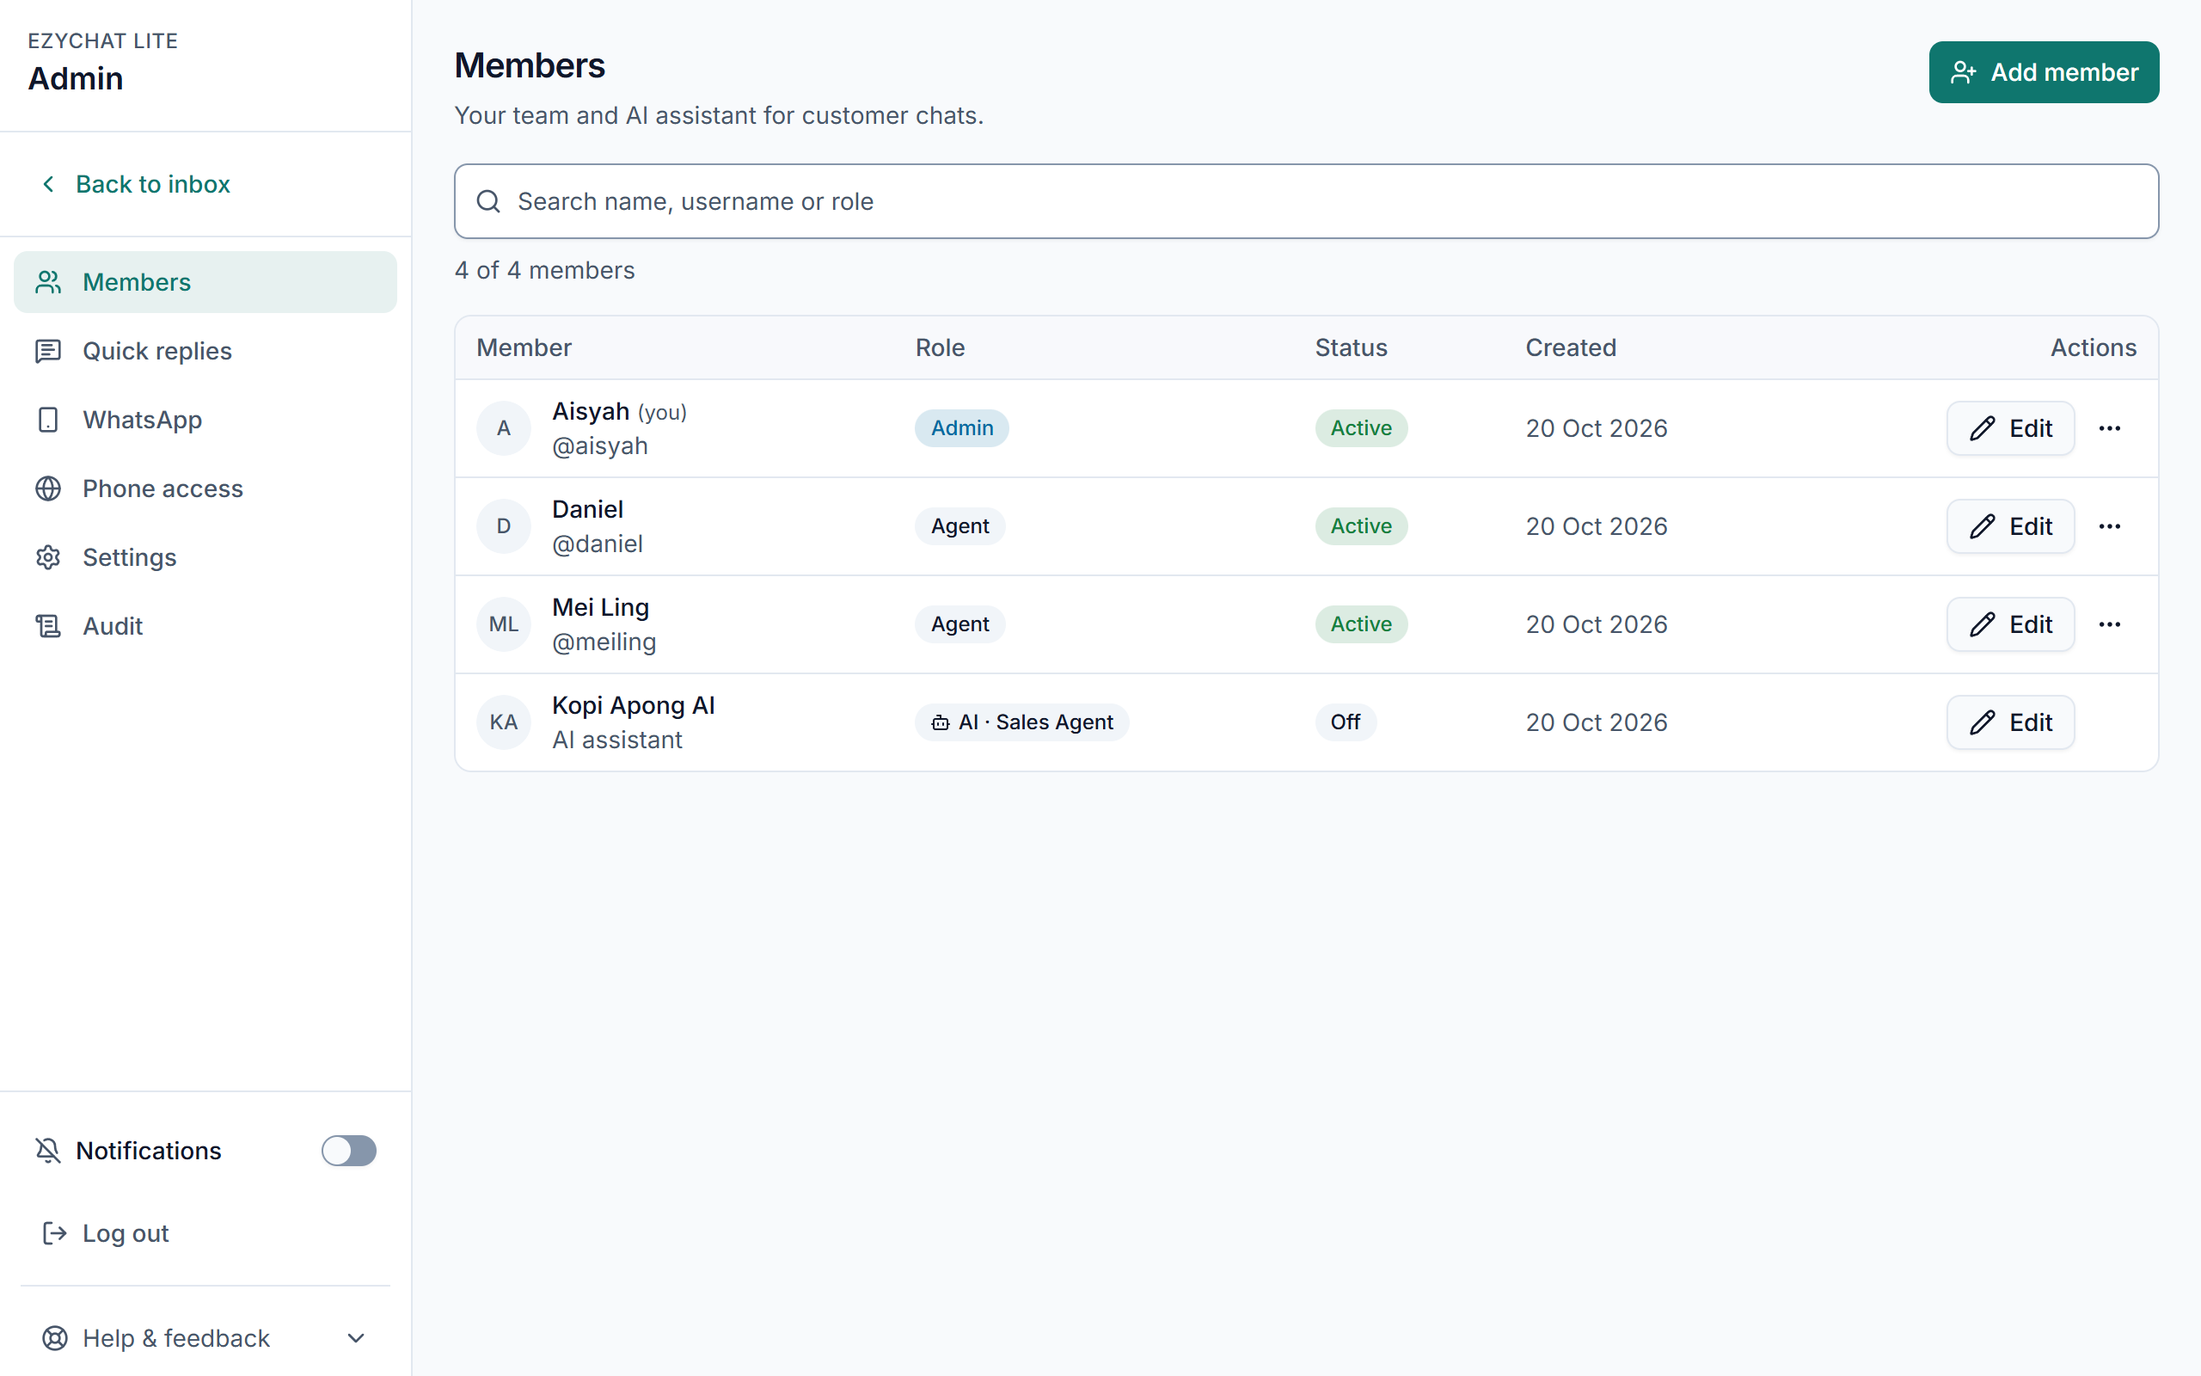
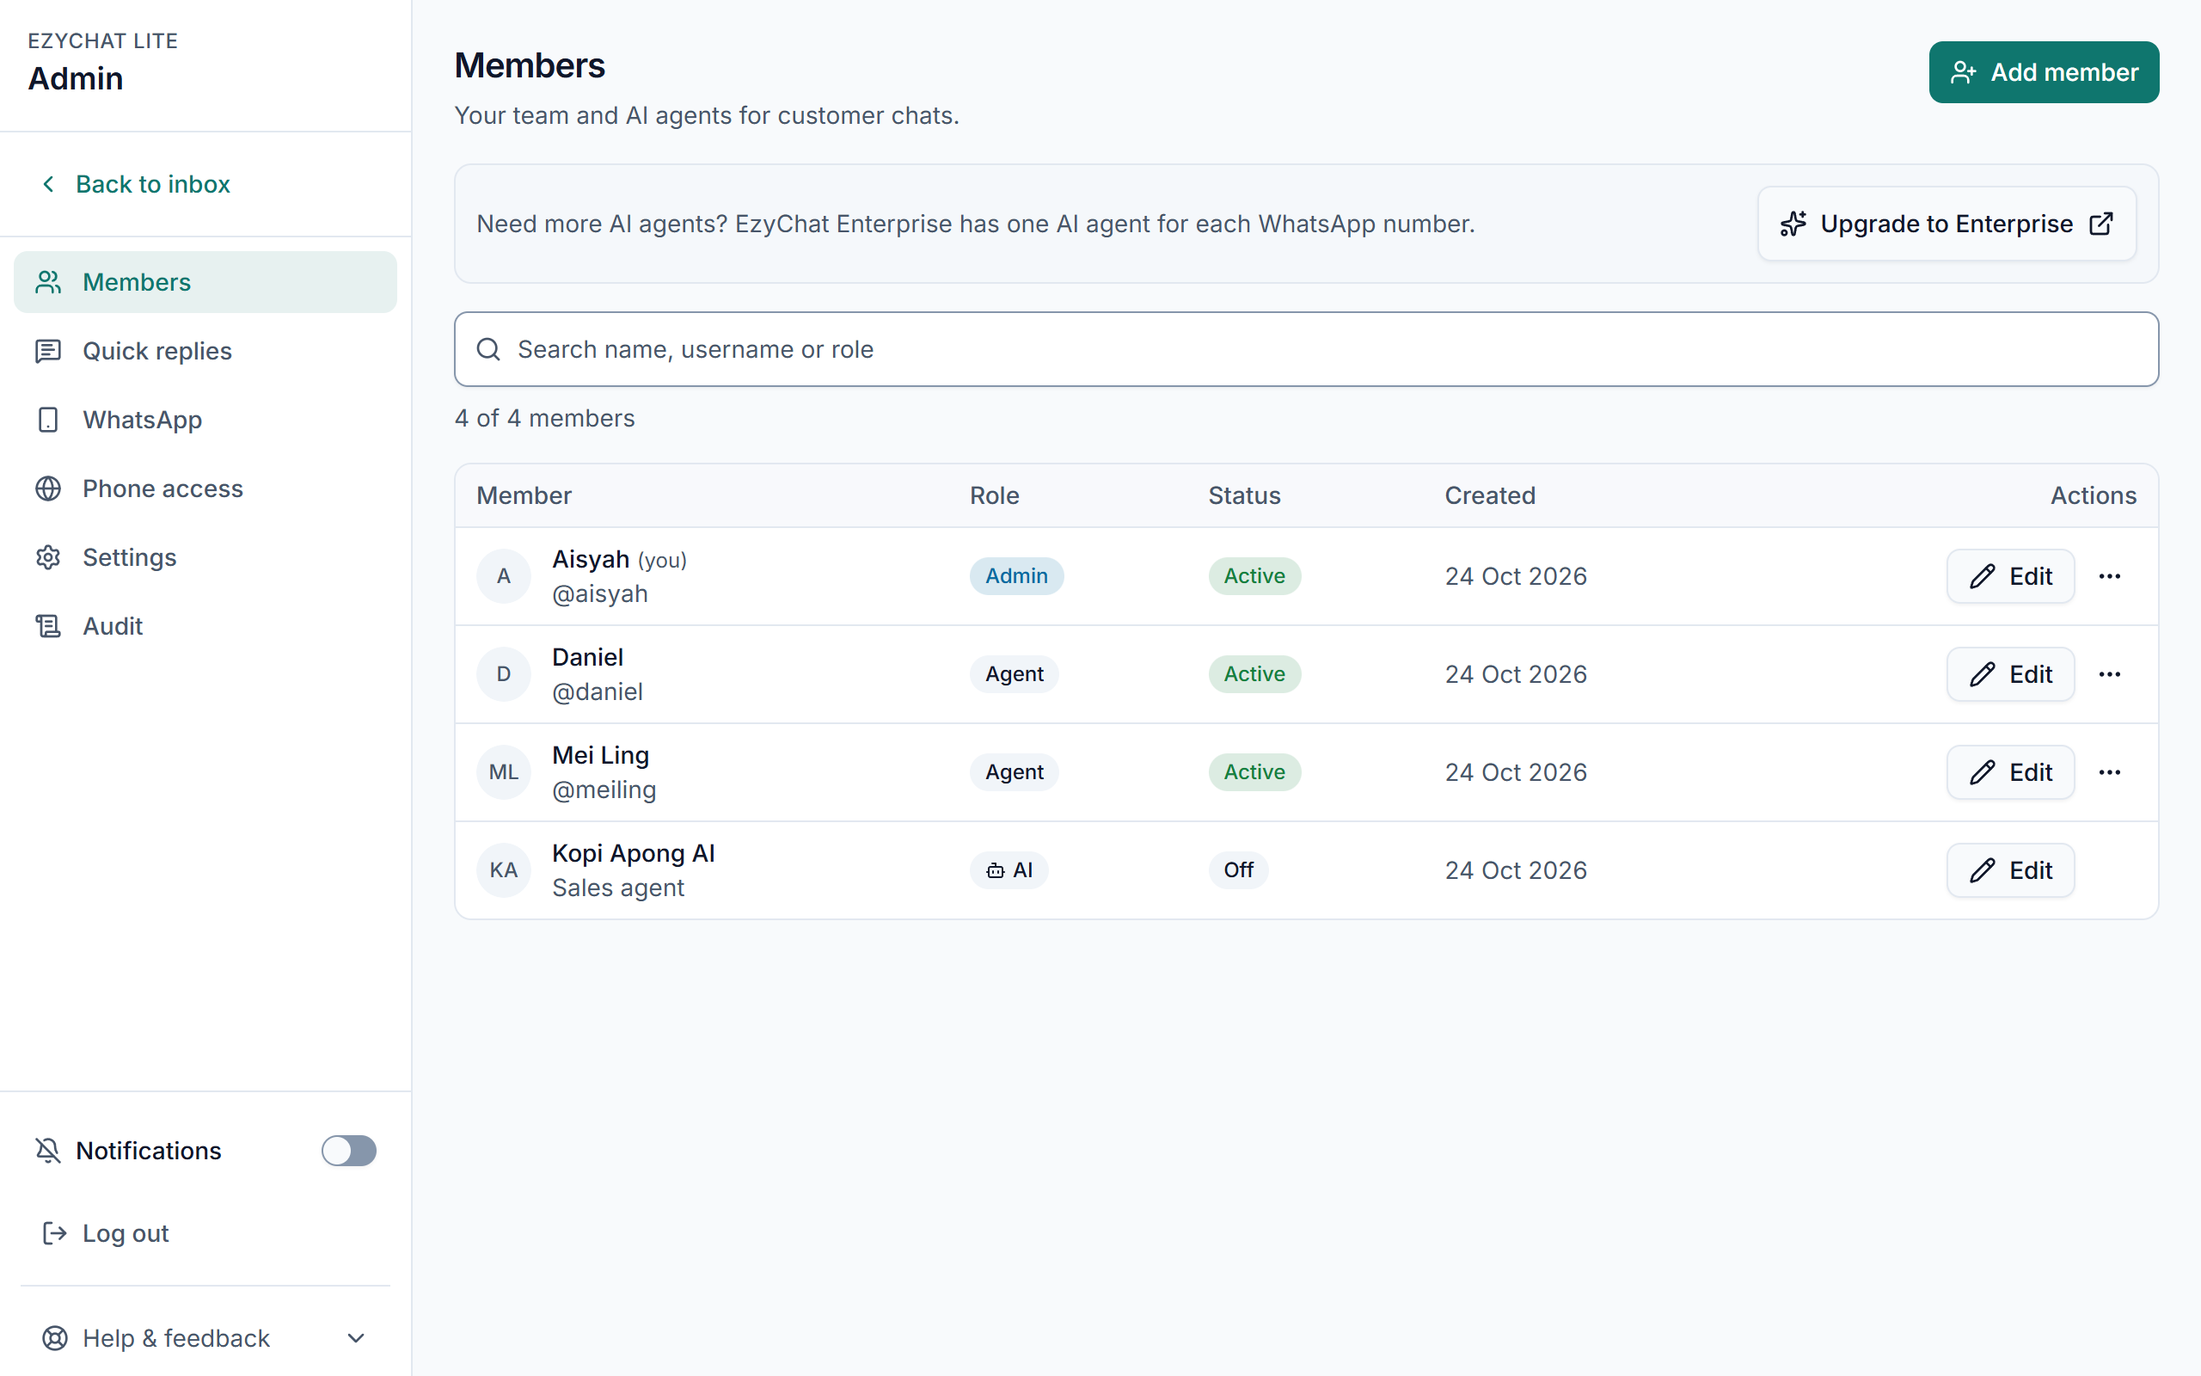
docs(upgrade): e2e, Dev Build check, screen review and refreshed screenshots
Claude-Session: https://claude.ai/code/session_01S9XZgzFP3XMvxuZSeyCGwr

diff --git a/docs/dev-build-checks.md b/docs/dev-build-checks.md
@@ -31,11 +31,12 @@ Read this log before testing a feature, and add a row after every Dev Build chec
 
 Emoji reactions (`feat/emoji-reactions`), fake WA, temp data:
 
-| Date       | Build / PR                                        | Scenario                                                                                                                        | Steps                                                                                                                                                                                                                                                                                                                                                                                                                                                  | Result                                                                                                                                                                                                                                                                                                | Not covered                                                                                                                                                                                   |
-| ---------- | ------------------------------------------------- | ------------------------------------------------------------------------------------------------------------------------------- | ------------------------------------------------------------------------------------------------------------------------------------------------------------------------------------------------------------------------------------------------------------------------------------------------------------------------------------------------------------------------------------------------------------------------------------------------------ | ----------------------------------------------------------------------------------------------------------------------------------------------------------------------------------------------------------------------------------------------------------------------------------------------------- | --------------------------------------------------------------------------------------------------------------------------------------------------------------------------------------------- |
-| 2026-10-24 | `feat/send-reactions` (`a3fea5d`)                 | A teammate reacts from the inbox: beside the customer's reaction, removes it, replaces the phone's, in a group, after a restart | Dev Build (`cli.ts --fake-wa --mode standalone`, port 7490, temp data); seed with `node e2e/marketing-screenshots.mjs 7490 <tmp>`; `node e2e/devbuild-reactions-check.mjs 7490 run`; stop the server, start it on the same data; `… restart`; screens with the 🙂 button, bar, grid, list and a teammate's view (`docs/screenshots/chat/react-bar-*`)                                                                                                  | All 12 checks passed (8 before and 4 after the restart): "🙏 team" beside Priya's 👍, the same emoji removes it, 🎉 replaces the phone's 🙏, a team 👍 in the group; the teammate name stays after the restart; no error lines in the server log; 24 screens without page errors or horizontal scroll | **Real WhatsApp send** (Baileys `react` key, group author): needs the owner's test number, never the owner's own number; the offline (disabled bar) state is covered by unit tests only       |
-| 2026-10-23 | `feat/emoji-reactions` (`14b78e2` + check script) | Reactions arrive, change, go away, group per person and survive a restart                                                       | Dev Build (`cli.ts --fake-wa --mode standalone`, port 7490, temp data; `--mode dev` answers 404 on first-admin setup, so the seed script cannot run there); `node e2e/marketing-screenshots.mjs 7490 <tmp>` (seeds Priya's ❤, the phone's 🙏, three group reactions); `node e2e/devbuild-reactions-check.mjs 7490 run`; stop the server, start it on the same data; `… restart`. Screens: `docs/screenshots/chat/conversation-*`, `group-reactions-*` | All 8 checks passed: seeded ❤, change to 👍, add and remove, one reaction per person in the group; after the restart the same state, the phone's 🙏 and the removal kept; no error lines in the server log                                                                                           | **Real WhatsApp** (Baileys `reactionMessage` live and in history): needs the owner's test number, the owner reacts from another phone; reactions received before the update were never stored |
-| 2026-10-23 | `feat/emoji-reactions` (`016104f`)                | Real WhatsApp: reactions in history and live, receive only                                                                      | `cli.ts --mode standalone` without `--fake-wa`, port 7480, new temp data; the owner linked their number by QR and sent nothing from the app; the owner and contacts reacted on phones; read `message_reactions` (counts and emojis only, no names or numbers) and the log                                                                                                                                                                              | 58 reactions stored from the 3-day history and live (a group 🔥 arrived while the app ran); every row matched a stored message; direct chats and groups, the linked phone's own reactions (`from_me`), skin tones (👍🏻); the owner saw the badges in the app; no reaction errors in the log            | A live change and removal on real WhatsApp were not confirmed one by one (covered with fake WA above); sending a reaction from EzyChat is not in scope                                        |
+| Date       | Build / PR                                        | Scenario                                                                                                                        | Steps                                                                                                                                                                                                                                                                                                                                                                                                                                                  | Result                                                                                                                                                                                                                                                                                                                                        | Not covered                                                                                                                                                                                   |
+| ---------- | ------------------------------------------------- | ------------------------------------------------------------------------------------------------------------------------------- | ------------------------------------------------------------------------------------------------------------------------------------------------------------------------------------------------------------------------------------------------------------------------------------------------------------------------------------------------------------------------------------------------------------------------------------------------------ | --------------------------------------------------------------------------------------------------------------------------------------------------------------------------------------------------------------------------------------------------------------------------------------------------------------------------------------------- | --------------------------------------------------------------------------------------------------------------------------------------------------------------------------------------------- |
+| 2026-10-24 | `feat/upgrade-enterprise` (`10663f8`)             | A Lite admin finds Upgrade to Enterprise at each limit, in the account menu and in About                                        | `cli.ts --fake-wa --mode dev`, port 7496, temp data, first admin over the API; capture script: Members, WhatsApp, `/admin/members/ai/new`, account menu, About at 1280 and 360, light and dark; then one AI agent created over the API and the same screens again; `npm run e2e:electron-links` (real desktop window); `https://ezychat.ai/` fetched to find the `#enterprise` section                                                                 | 40 screens without page errors or horizontal scroll; the Members and WhatsApp notes, the menu item (admin) and About show the button; with one agent `/new` shows the limit page with Upgrade to Enterprise beside Back to Members; in the desktop window the link opens in the OS on Members and WhatsApp; the website has `id="enterprise"` | Enterprise hides every link only after it passes `upgrade: null` (Enterprise release on core 0.1.51+); a teammate (agent role) sees no menu item: unit test only                              |
+| 2026-10-24 | `feat/send-reactions` (`a3fea5d`)                 | A teammate reacts from the inbox: beside the customer's reaction, removes it, replaces the phone's, in a group, after a restart | Dev Build (`cli.ts --fake-wa --mode standalone`, port 7490, temp data); seed with `node e2e/marketing-screenshots.mjs 7490 <tmp>`; `node e2e/devbuild-reactions-check.mjs 7490 run`; stop the server, start it on the same data; `… restart`; screens with the 🙂 button, bar, grid, list and a teammate's view (`docs/screenshots/chat/react-bar-*`)                                                                                                  | All 12 checks passed (8 before and 4 after the restart): "🙏 team" beside Priya's 👍, the same emoji removes it, 🎉 replaces the phone's 🙏, a team 👍 in the group; the teammate name stays after the restart; no error lines in the server log; 24 screens without page errors or horizontal scroll                                         | **Real WhatsApp send** (Baileys `react` key, group author): needs the owner's test number, never the owner's own number; the offline (disabled bar) state is covered by unit tests only       |
+| 2026-10-23 | `feat/emoji-reactions` (`14b78e2` + check script) | Reactions arrive, change, go away, group per person and survive a restart                                                       | Dev Build (`cli.ts --fake-wa --mode standalone`, port 7490, temp data; `--mode dev` answers 404 on first-admin setup, so the seed script cannot run there); `node e2e/marketing-screenshots.mjs 7490 <tmp>` (seeds Priya's ❤, the phone's 🙏, three group reactions); `node e2e/devbuild-reactions-check.mjs 7490 run`; stop the server, start it on the same data; `… restart`. Screens: `docs/screenshots/chat/conversation-*`, `group-reactions-*` | All 8 checks passed: seeded ❤, change to 👍, add and remove, one reaction per person in the group; after the restart the same state, the phone's 🙏 and the removal kept; no error lines in the server log                                                                                                                                   | **Real WhatsApp** (Baileys `reactionMessage` live and in history): needs the owner's test number, the owner reacts from another phone; reactions received before the update were never stored |
+| 2026-10-23 | `feat/emoji-reactions` (`016104f`)                | Real WhatsApp: reactions in history and live, receive only                                                                      | `cli.ts --mode standalone` without `--fake-wa`, port 7480, new temp data; the owner linked their number by QR and sent nothing from the app; the owner and contacts reacted on phones; read `message_reactions` (counts and emojis only, no names or numbers) and the log                                                                                                                                                                              | 58 reactions stored from the 3-day history and live (a group 🔥 arrived while the app ran); every row matched a stored message; direct chats and groups, the linked phone's own reactions (`from_me`), skin tones (👍🏻); the owner saw the badges in the app; no reaction errors in the log                                                    | A live change and removal on real WhatsApp were not confirmed one by one (covered with fake WA above); sending a reaction from EzyChat is not in scope                                        |
 
 Customer name from WhatsApp (`fix/customer-name-from-whatsapp`), fake WA, temp data:
 

diff --git a/docs/workbooks/feat__upgrade-enterprise.md b/docs/workbooks/feat__upgrade-enterprise.md
@@ -8,9 +8,9 @@ Branch: `feat/upgrade-enterprise` · Every agent updates its stage with
 | Design | done | Owner confirmed the mock 2026-10-24 after viewing the screenshots; latestConfirmed = upgrade-enterprise | 2026-10-24 |
 | Dev | done | AppLinks.upgrade (Lite ezychat.ai/#enterprise, null hides); UpgradeButton/UpgradeNote; Members (Lite), AI agent limit, WhatsApp card, account menu (admins), About; ms + zh-CN | 2026-10-24 |
 | Unit tests | done | UpgradeEnterprise.test (Lite, null, About, admin vs agent menu) + Members, AI agent limit, WhatsApp cases | 2026-10-24 |
-| E2E | todo |  |  |
-| Dev Build | todo |  |  |
-| Screen review | todo |  |  |
+| E2E | done | npm run e2e: 83 passed, 12 skipped (upgrade-enterprise.spec on desktop + iphone); e2e:electron-links 15/15 screens, upgrade link opens in the OS on Members and WhatsApp | 2026-10-24 |
+| Dev Build | done | Dev Build 7496 (temp data, fake WA): 40 screens, limit page with one agent, desktop links open in the OS, ezychat.ai#enterprise exists; row in docs/dev-build-checks.md | 2026-10-24 |
+| Screen review | done | Members, WhatsApp, AI limit page, account menu, About at 1280/360 light/dark: matches the confirmed mock, no overflow, no page errors; no fixes needed | 2026-10-24 |
 
 ## Log
 
@@ -18,3 +18,6 @@ Branch: `feat/upgrade-enterprise` · Every agent updates its stage with
 - 2026-10-24 Design: done — Owner confirmed the mock 2026-10-24 after viewing the screenshots; latestConfirmed = upgrade-enterprise
 - 2026-10-24 Dev: done — AppLinks.upgrade (Lite ezychat.ai/#enterprise, null hides); UpgradeButton/UpgradeNote; Members (Lite), AI agent limit, WhatsApp card, account menu (admins), About; ms + zh-CN
 - 2026-10-24 Unit tests: done — UpgradeEnterprise.test (Lite, null, About, admin vs agent menu) + Members, AI agent limit, WhatsApp cases
+- 2026-10-24 E2E: done — npm run e2e: 83 passed, 12 skipped (upgrade-enterprise.spec on desktop + iphone); e2e:electron-links 15/15 screens, upgrade link opens in the OS on Members and WhatsApp
+- 2026-10-24 Dev Build: done — Dev Build 7496 (temp data, fake WA): 40 screens, limit page with one agent, desktop links open in the OS, ezychat.ai#enterprise exists; row in docs/dev-build-checks.md
+- 2026-10-24 Screen review: done — Members, WhatsApp, AI limit page, account menu, About at 1280/360 light/dark: matches the confirmed mock, no overflow, no page errors; no fixes needed

diff --git a/docs/LEARNINGS.md b/docs/LEARNINGS.md
@@ -301,6 +301,9 @@ into AGENTS.md.
 
 ## Build, tooling and Windows
 
+- Stopping a background `npx tsx …cli.ts` shell task on Windows leaves the Node server running on its port
+  (the next server fails with `EADDRINUSE`, and scripts talk to the old one). After the stop, find the
+  owner of the port and stop it only when its command line shows your own temp data folder.
 - In a Node script on Windows, never call `process.exit()` while a `fetch` may still be open: Node aborts
   with `Assertion failed: !(handle->flags & UV_HANDLE_CLOSING)` and a non-zero code, so a `&&` chain
   stops. Set `process.exitCode` and return instead.
